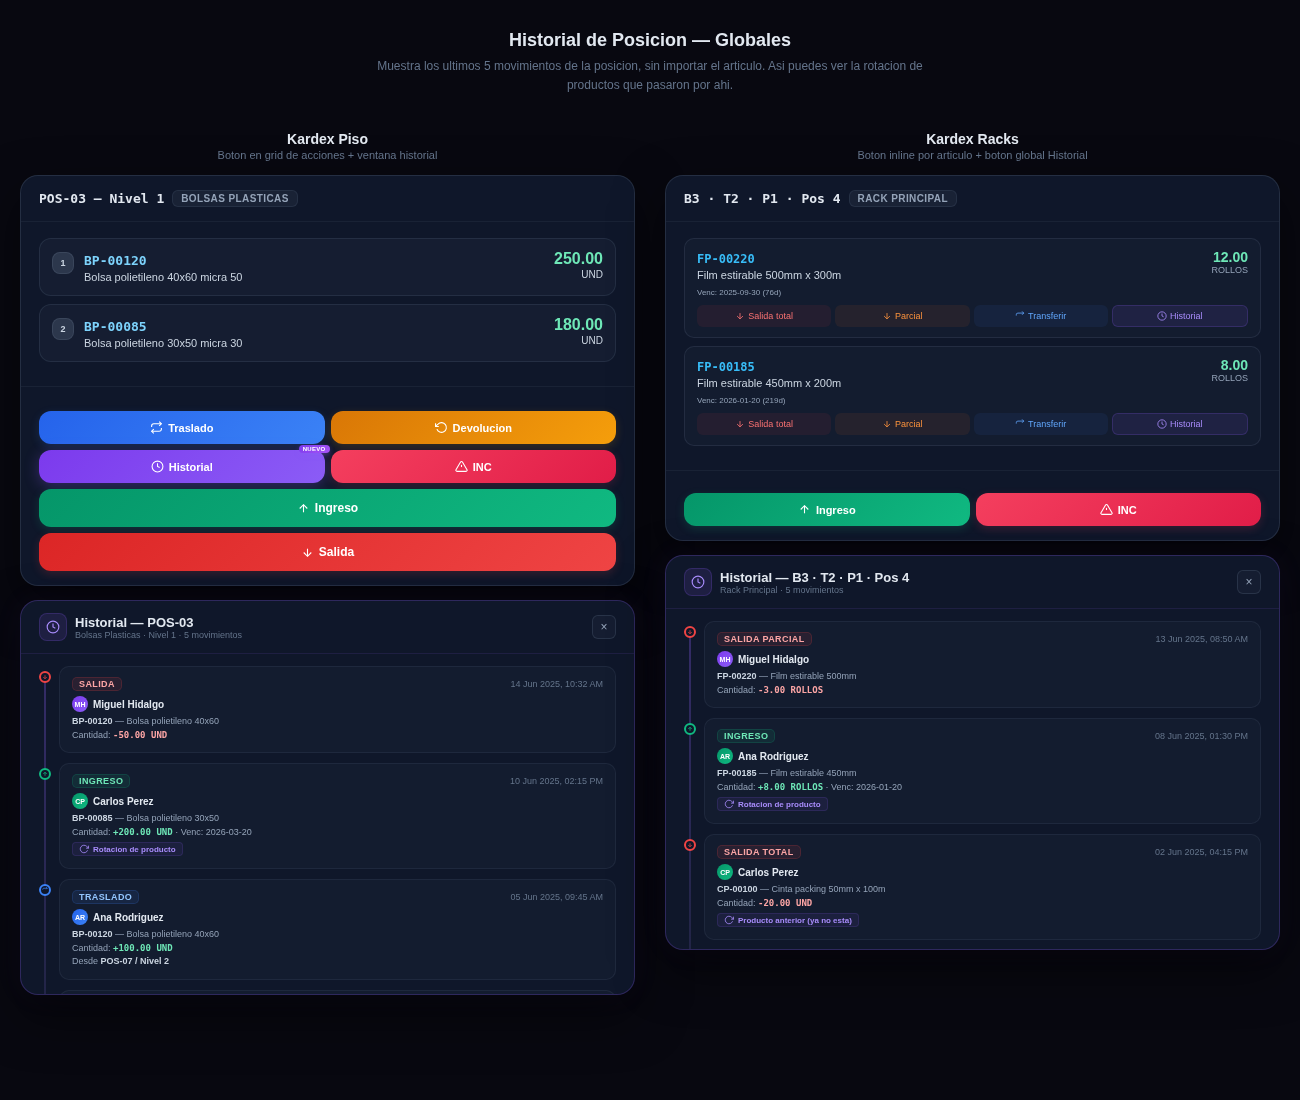
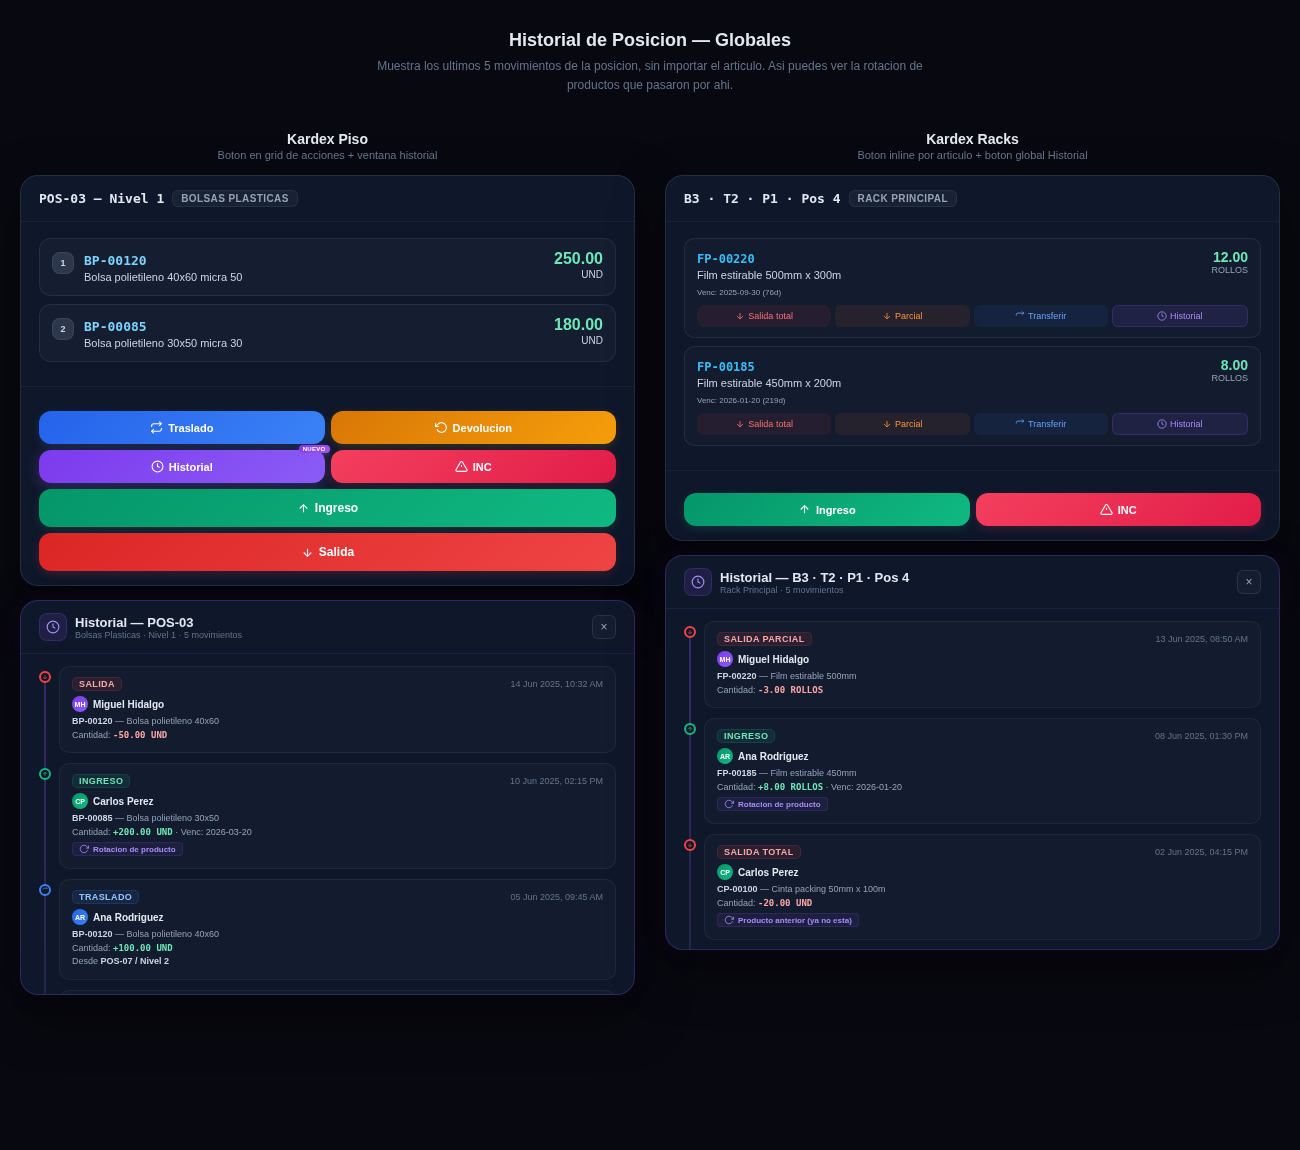
f77f4bdc-c087-4043-9887-5ba943301115

diff --git a/download/mockup_historial_ambos.html b/download/mockup_historial_ambos.html
@@ -427,6 +427,35 @@
     margin-top: 3px;
   }
 
+  /* ─── LOAD MORE BUTTON ─── */
+  .load-more {
+    display: flex;
+    align-items: center;
+    justify-content: center;
+    gap: 6px;
+    width: 100%;
+    padding: 8px;
+    margin-top: 10px;
+    border-radius: 10px;
+    border: 1px dashed rgba(139,92,246,0.3);
+    background: rgba(139,92,246,0.04);
+    color: #a78bfa;
+    font-size: 10px;
+    font-weight: 600;
+    cursor: pointer;
+    transition: all 0.2s;
+  }
+  .load-more:hover {
+    background: rgba(139,92,246,0.08);
+    border-color: rgba(139,92,246,0.45);
+  }
+  .load-more svg { width: 14px; height: 14px; }
+  .load-more-count {
+    font-size: 9px;
+    color: #64748b;
+    margin-left: 2px;
+  }
+
   .empty-note {
     text-align: center;
     padding: 20px;
@@ -652,6 +681,12 @@
             </div>
           </div>
         </div>
+        <!-- LOAD MORE -->
+        <button class="load-more">
+          <svg viewBox="0 0 24 24" fill="none" stroke="currentColor" stroke-width="2"><circle cx="12" cy="12" r="10"/><line x1="12" y1="8" x2="12" y2="16"/><line x1="8" y1="12" x2="16" y2="12"/></svg>
+          Cargar mas movimientos
+          <span class="load-more-count">(quedan 12 mas antiguos)</span>
+        </button>
       </div>
     </div>
   </div>
@@ -876,6 +911,12 @@
             </div>
           </div>
         </div>
+        <!-- LOAD MORE -->
+        <button class="load-more">
+          <svg viewBox="0 0 24 24" fill="none" stroke="currentColor" stroke-width="2"><circle cx="12" cy="12" r="10"/><line x1="12" y1="8" x2="12" y2="16"/><line x1="8" y1="12" x2="16" y2="12"/></svg>
+          Cargar mas movimientos
+          <span class="load-more-count">(quedan 8 mas antiguos)</span>
+        </button>
       </div>
     </div>
   </div>
